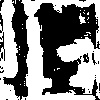
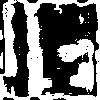
crop

diff --git a/inference.py b/inference.py
@@ -27,7 +27,8 @@ def parse_args():
     return check_args(args)
 
 def create_features(img):
-
+    #new_img = img[0:256, 0:img.shape[1]]]
+    print("IMG SHAPE INF1: ", img.shape)
     img_gray = cv2.cvtColor(img, cv2.COLOR_BGR2GRAY)
 
     features, _ = train.create_features(img, img_gray, label=None, train=False)
@@ -37,13 +38,14 @@ def create_features(img):
 def compute_prediction(img, model):
 
     border = 5 # (haralick neighbourhood - 1) / 2
-
+    print("IMG SHAPE INF2: ", img.shape)
     img = cv2.copyMakeBorder(img, top=border, bottom=border, \
                                   left=border, right=border, \
                                   borderType = cv2.BORDER_CONSTANT, \
                                   value=[0, 0, 0])
 
     features = create_features(img)
+    print("FEATURES SHAPE INF2: ", features.shape)
     predictions = model.predict(features.reshape(-1, features.shape[1]))
     pred_size = int(math.sqrt(features.shape[0]))
     inference_img = predictions.reshape(pred_size, pred_size)
@@ -54,14 +56,15 @@ def infer_images(image_dir, model_path, output_dir):
 
     filelist = glob(os.path.join(image_dir,'*.jpg'))
 
-    print ('[INFO] Running inference on %s test images' %len(filelist))
+    print('[INFO] Running inference on %s test images' %len(filelist))
 
     model = pkl.load(open( model_path, "rb" ) )
 
     for file in filelist:
         print ('[INFO] Processing images:', os.path.basename(file))
         test_img = cv2.imread(file, 1)
-        inference_img = compute_prediction(test_img[0:256, 42:298], model)
+        #test_img = test_img[0:256, 42:298]
+        inference_img = compute_prediction(test_img, model)
         cv2.imwrite(os.path.join(output_dir, os.path.basename(file)), inference_img)
 
 def main(image_dir, model_path, output_dir):

diff --git a/crop.py b/crop.py
@@ -1,0 +1,47 @@
+from PIL import Image
+from glob import glob
+import os
+import cv2
+
+def crop_image(image_dir, save_dir, image_type, save_type):
+    """
+    @param image_dir: Path to folder of images
+    @param save_dir: Path to folder to save the cropped images
+    @param image_type: Image type ('jpg' or 'png)
+    @param save_type: Saved cropped image type ('jpg' or 'png)
+    Saves a centered, square crop of each image in image_dir to save_dir
+    """
+    if image_type == 'jpg':
+        filelist = glob(os.path.join(image_dir, '*.jpg'))
+    elif image_type == 'png':
+        filelist = glob(os.path.join(image_dir, '*.png'))
+    for file in filelist:
+        img = cv2.imread(file, 1)
+        m = img.shape[0]
+        n = img.shape[1]
+        image_obj = Image.open(file)
+        if m > n:
+            shift = int((m-n)/2)
+            cropped_img = image_obj.crop((shift, 0, 256+shift, n))
+        elif m < n:
+            shift = int((n-m) / 2)
+            cropped_img = image_obj.crop((0, shift, m, 256+shift))
+        cropped_img.show()
+        print(file)
+        temp = file.replace(image_dir, save_dir)
+        temp2 = temp[:len(temp) - 4]
+        print(temp2)
+        if save_type == 'jpg':
+            save_location = temp2 + '.jpg'
+        elif save_type == 'png':
+            save_location = temp2 + '.png'
+        cropped_img.save(save_location)
+
+
+if __name__ == '__main__':
+    #image_dir = 'hands/images'
+    #save_dir = 'hands/cropped_images'
+    #crop_image(image_dir, save_dir, 'jpg', 'jpg')
+    image_dir = 'hands/labels'
+    save_dir = 'hands/cropped_labels'
+    crop_image(image_dir, save_dir, 'jpg', 'png')

diff --git a/train.py b/train.py
@@ -12,8 +12,6 @@ from sklearn import metrics
 from sklearn.model_selection import train_test_split
 import time
 import mahotas as mt
-from PIL import Image
-import torchvision.transforms as transforms
 
 def check_args(args):
 
@@ -50,9 +48,11 @@ def read_data(image_dir, label_dir):
 
     for file in filelist:
         img = cv2.imread(file, 1)
-        image_list.append(img[0:256, 42:298])
+        image_list.append(img)
+        #image_list.append(img[0:256, 42:298])
         lab = cv2.imread(os.path.join(label_dir, os.path.basename(file).split('.')[0]+'.png'), 0)
-        label_list.append(lab[0:256, 42:298])
+        label_list.append(lab)
+        #label_list.append(lab[0:256, 42:298])
 
     return image_list, label_list
 
